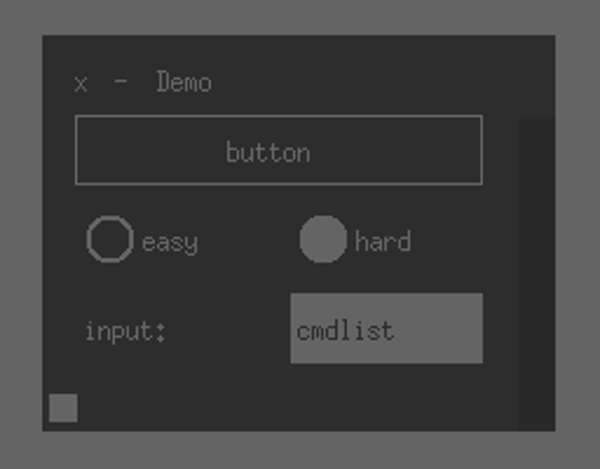
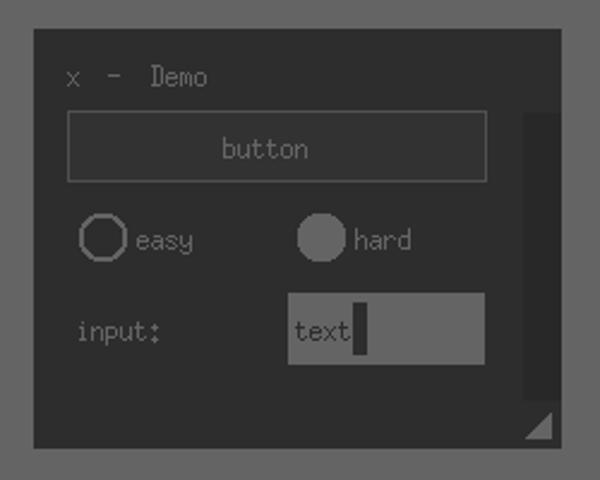
fixed minimized panel footer + replace screenshot

diff --git a/gui.c b/gui.c
@@ -1341,16 +1341,6 @@ gui_panel_begin(struct gui_panel_layout *layout, struct gui_panel *panel,
         }
     }
 
-    footer_h = config->scaler_size.y + config->item_padding.y;
-    if (panel->flags & GUI_PANEL_SCROLLBAR) {
-        gui_float footer_x, footer_y, footer_w;
-        footer_x = panel->x;
-        footer_w = panel->w;
-        footer_y = panel->y + panel->h - footer_h;
-        canvas->draw_rect(canvas->userdata, footer_x, footer_y, footer_w, footer_h,
-            config->colors[GUI_COLOR_PANEL]);
-    }
-
     if (panel->flags & GUI_PANEL_SCALEABLE) {
         gui_bool incursor;
         gui_float scaler_w = MAX(0, config->scaler_size.x - config->item_padding.x);
@@ -1390,6 +1380,15 @@ gui_panel_begin(struct gui_panel_layout *layout, struct gui_panel *panel,
     canvas->draw_rect(canvas->userdata, panel->x, panel->y, panel->w,
         layout->header_height, *header);
 
+    footer_h = config->scaler_size.y + config->item_padding.y;
+    if ((panel->flags & GUI_PANEL_SCROLLBAR) && !panel->minimized) {
+        gui_float footer_x, footer_y, footer_w;
+        footer_x = panel->x;
+        footer_w = panel->w;
+        footer_y = panel->y + panel->h - footer_h;
+        canvas->draw_rect(canvas->userdata, footer_x, footer_y, footer_w, footer_h,
+            config->colors[GUI_COLOR_PANEL]);
+    }
 
     if (!(panel->flags & GUI_PANEL_TAB)) {
         panel->flags |= GUI_PANEL_SCROLLBAR;

diff --git a/demo/xlib.c b/demo/xlib.c
@@ -483,6 +483,11 @@ main(int argc, char *argv[])
     struct gui_panel_layout layout;
     struct gui_panel panel;
 
+    gui_size option = 0;
+    gui_char buf[256];
+    gui_size len = 0;
+    gui_bool active;
+
     /* Window */
     UNUSED(argc); UNUSED(argv);
     memset(&xw, 0, sizeof xw);
@@ -516,7 +521,7 @@ main(int argc, char *argv[])
     font.height = (gui_float)xw.font->height;
     font.width = font_get_text_width;
     gui_default_config(&config);
-    gui_panel_init(&panel, 50, 50, 420, 320,
+    gui_panel_init(&panel, 50, 50, 400, 320,
         GUI_PANEL_BORDER|GUI_PANEL_MOVEABLE|
         GUI_PANEL_CLOSEABLE|GUI_PANEL_SCALEABLE|
         GUI_PANEL_MINIMIZABLE, &config, &font);

diff --git a/Readme.md b/Readme.md
@@ -92,11 +92,13 @@ while (1) {
     if (gui_panel_button_text(&layout, "button", GUI_BUTTON_DEFAULT)) {
         /* event handling */
     }
+
     gui_panel_row(&layout, 30, 2);
     if (gui_panel_option(&layout, "easy", option == 0)) option = 0;
     if (gui_panel_option(&layout, "hard", option == 1)) option = 1;
-    gui_panel_text(&layout, "input:", 6, GUI_TEXT_LEFT);
-    len = gui_panel_input(&layout, buffer, len, 256, &active, GUI_INPUT_DEFAULT);
+
+    gui_panel_label(&layout, "input:", GUI_TEXT_LEFT);
+    len = gui_panel_edit(&layout, buffer, len, 256, &active, GUI_INPUT_DEFAULT);
     gui_panel_end(&layout, &panel);
     gui_buffer_end(&list, &buffer, &canvas, &status);
 
